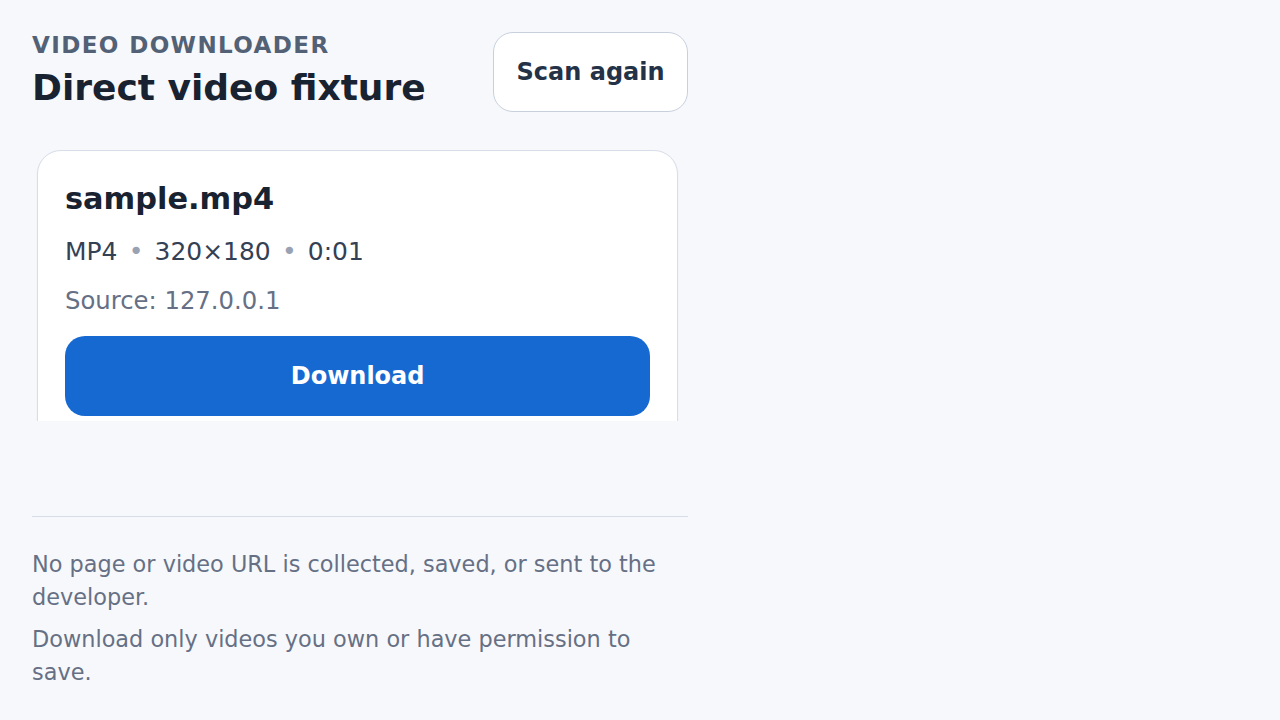
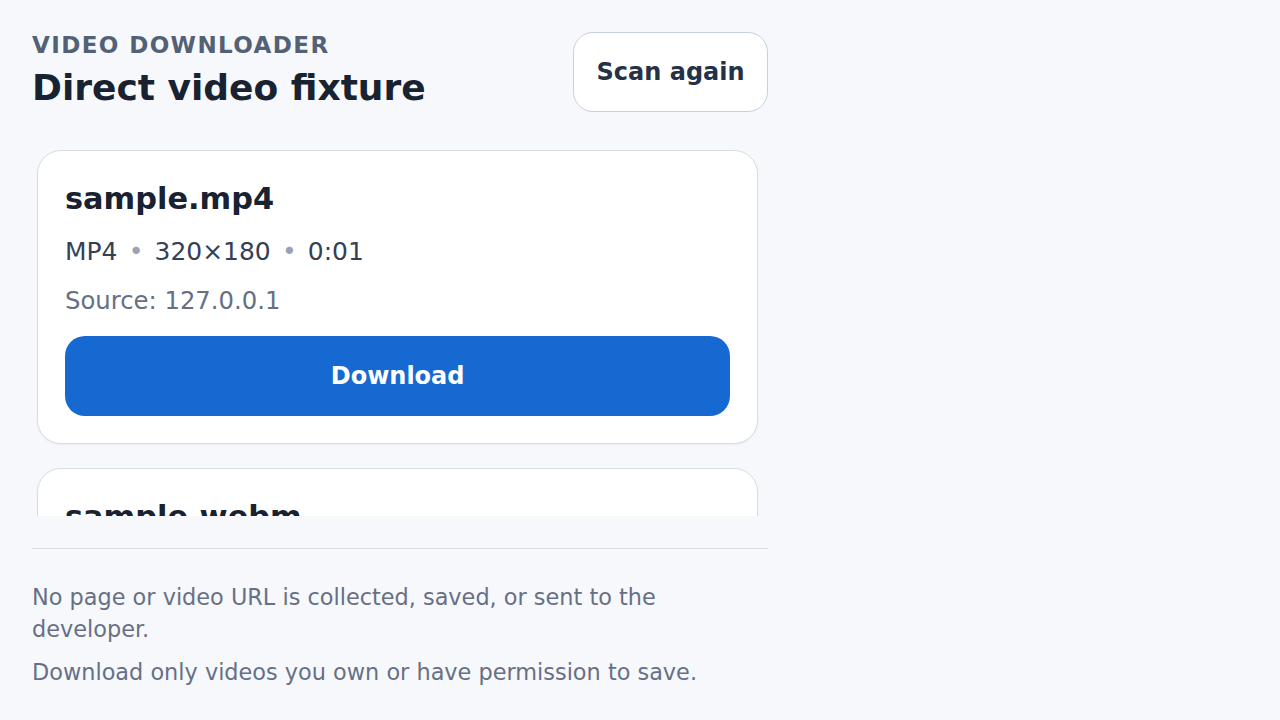
fix(popup): stabilize menu proportions
Use a 400px base width and 320px minimum height, remove empty live-status layout space, and cover empty and populated aspect ratios in browser tests.

diff --git a/e2e/extension.spec.ts b/e2e/extension.spec.ts
@@ -152,6 +152,26 @@ test.describe
       await downloadAndVerify("Download sample.webm", expectedHashes.webm);
     });
 
+    test("keeps popup proportions stable across empty and found states", async () => {
+      async function popupDimensions() {
+        return popup.locator(".popup-shell").evaluate((element) => {
+          const bounds = element.getBoundingClientRect();
+          return { height: bounds.height, width: bounds.width };
+        });
+      }
+
+      await scan("empty.html", "No direct videos found");
+      const empty = await popupDimensions();
+      expect(empty.width).toBeGreaterThanOrEqual(390);
+      expect(empty.width).toBeLessThanOrEqual(410);
+      expect(empty.height / empty.width).toBeGreaterThanOrEqual(0.75);
+
+      await scan("direct.html", "Direct video fixture");
+      const found = await popupDimensions();
+      expect(found.width).toBe(empty.width);
+      expect(found.height / found.width).toBeLessThanOrEqual(1.25);
+    });
+
     test("downloads dynamic, extensionless, and authenticated direct URLs", async () => {
       await scan("dynamic.html", "Dynamic video fixture");
       await expect(popup.locator("body")).not.toContainText("fixture-secret");

diff --git a/src/popup/styles.css b/src/popup/styles.css
@@ -14,8 +14,8 @@ html,
 body,
 #root {
   margin: 0;
-  min-width: min(22.5rem, 100vw);
-  width: min(22.5rem, 100vw);
+  min-width: min(25rem, 100vw);
+  width: min(25rem, 100vw);
 }
 
 body {
@@ -43,8 +43,9 @@ button:disabled {
 }
 
 .popup-shell {
+  position: relative;
   display: flex;
-  min-height: 15rem;
+  min-height: 20rem;
   max-height: min(37.5rem, 100vh);
   flex-direction: column;
   gap: 1rem;
@@ -205,14 +206,30 @@ h2 {
 
 .live-status {
   min-height: 1.2em;
+  margin-top: auto;
   color: #344054;
   font-size: 0.8rem;
   font-weight: 600;
 }
 
+.live-status:empty {
+  position: absolute;
+  width: 1px;
+  height: 1px;
+  min-height: 0;
+  margin: 0;
+  overflow: hidden;
+  clip-path: inset(50%);
+  white-space: nowrap;
+}
+
 .separator {
   height: 1px;
   background: #d8dee8;
+}
+
+.separator-after-empty-status {
+  margin-top: auto;
 }
 
 footer {

diff --git a/src/popup/App.tsx b/src/popup/App.tsx
@@ -280,7 +280,7 @@ export function App({
         {announcement}
       </p>
       <Separator.Root
-        className="separator"
+        className={`separator${announcement ? "" : " separator-after-empty-status"}`}
         decorative
         orientation="horizontal"
       />

diff --git a/docs/release-audit.md b/docs/release-audit.md
@@ -9,11 +9,12 @@ Audit date: August 15, 2026.
 - `npm run typecheck` passes TypeScript strict checking.
 - `npm run test:merge:integration` passes real FFmpeg/FFprobe checks for a one-second local HLS fixture and two seconds of explicitly ordered local MPEG-TS input.
 - `npm run build:chrome` produces `dist/chrome` and `video-downloader-0.1.0.zip` with Extension.js 4.0.32.
-- `npm run test:e2e:built` passes seven Chromium extension tests against locally generated fixtures.
+- `npm run test:e2e:built` passes eight Chromium extension tests against locally generated fixtures.
 - Direct MP4, WebM, dynamic, extensionless, and authenticated fixture downloads match expected SHA-256 hashes.
 - Blob, HLS, DASH, segment-heavy, and cross-origin iframe fixtures create no misleading download action.
 - Axe reports no accessibility violations in the populated popup fixture.
-- Keyboard focus order, reduced motion, and 200% text scaling pass automated checks.
+- Keyboard focus order, reduced motion, stable popup proportions, and 200% text scaling pass automated checks.
+- The empty fixture renders at 400×320 CSS pixels, while the two-candidate fixture renders at 400×490 CSS pixels without unused live-status space.
 - The [200% text-scaling screenshot](assets/popup-200-percent.png) keeps the primary action, candidate details, privacy notice, and rights notice visible without horizontal clipping.
 - `npm run audit:artifact` confirms exactly three permissions, one valid zip, packaged project and third-party notices, no host permissions, no background worker, no source maps, no development URL, no remote script/CSS, no `eval`, and no fixture token.
 - `npm audit --omit=dev --audit-level=high` reports zero production dependency vulnerabilities.
